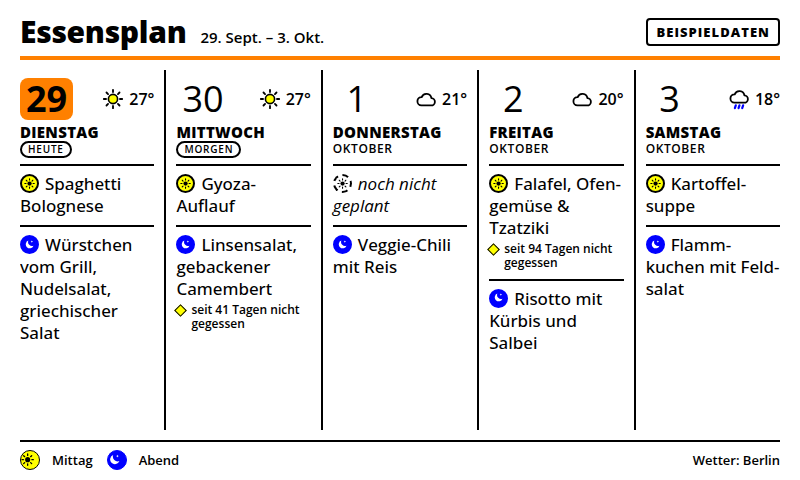
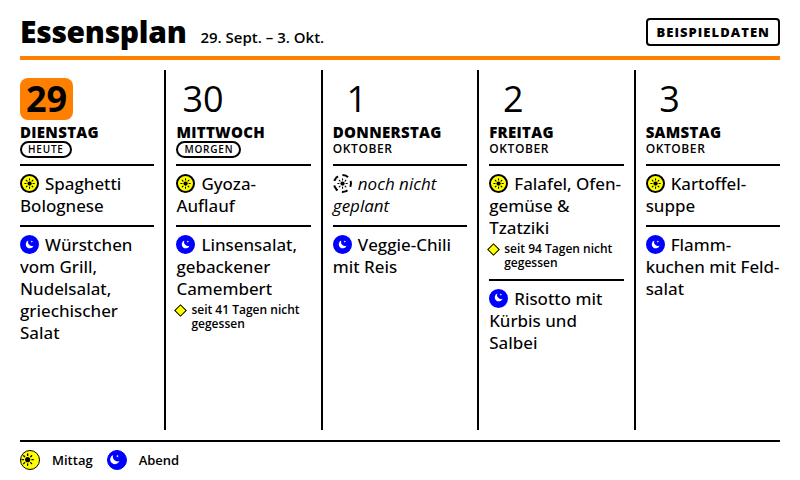
Remove weather from Meal Plan Calendar
The meal plan only shows dishes: drop the Open-Meteo forecast, the
weatherLocation setting, weather icons, footer notes and related texts,
tests and docs.

Claude-Session: https://claude.ai/code/session_016spRLE17zGqgwacGFc512h

diff --git a/applications/meal-plan-calendar/api/data.js b/applications/meal-plan-calendar/api/data.js
@@ -8,12 +8,7 @@ import {
   parseCalendarFeed,
   stringSetting,
 } from "../../_shared/calendar-feed.js";
-import { getJson } from "../../_shared/dashboard-api.js";
 
-const OPEN_METEO_FORECAST_URL = "https://api.open-meteo.com/v1/forecast";
-const OPEN_METEO_GEOCODING_URL = "https://geocoding-api.open-meteo.com/v1/search";
-const WEATHER_TTL_MS = 30 * 60 * 1000;
-const FORECAST_DAYS = 16;
 // iCloud public feeds keep roughly the last six months; look back a little further
 // so other feeds with longer histories can still report "not eaten for X days".
 const HISTORY_DAYS = 400;
@@ -160,51 +155,9 @@ export function buildPlan(meals, { today, start, days, slots, showLastEaten = tr
       if (!dayMeals.some((meal) => meal.slot === slot)) dayMeals.push({ slot, title: "", empty: true });
     }
     dayMeals.sort((a, b) => SLOT_ORDER.indexOf(a.slot) - SLOT_ORDER.indexOf(b.slot));
-    result.push({ date, meals: dayMeals, weather: null });
+    result.push({ date, meals: dayMeals });
   }
   return result;
-}
-
-function parseCoordinates(value) {
-  const match = /^\s*(-?\d{1,2}(?:\.\d+)?)\s*[,;]\s*(-?\d{1,3}(?:\.\d+)?)\s*$/.exec(value);
-  if (!match) return null;
-  const latitude = Number(match[1]);
-  const longitude = Number(match[2]);
-  if (Math.abs(latitude) > 90 || Math.abs(longitude) > 180) return null;
-  return { latitude, longitude, name: `${latitude.toFixed(2)}, ${longitude.toFixed(2)}` };
-}
-
-export async function fetchWeather(location, { timeZone, language, fetchJson = getJson }) {
-  let place = parseCoordinates(location);
-  if (!place) {
-    const search = new URLSearchParams({ name: location, count: "1", language, format: "json" });
-    const data = await fetchJson(`${OPEN_METEO_GEOCODING_URL}?${search}`, { ttl: WEATHER_TTL_MS * 48 });
-    const hit = Array.isArray(data?.results) ? data.results[0] : null;
-    if (!hit || !Number.isFinite(hit.latitude) || !Number.isFinite(hit.longitude)) {
-      throw new Error(`Weather location "${location}" was not found`);
-    }
-    place = { latitude: hit.latitude, longitude: hit.longitude, name: String(hit.name || location) };
-  }
-  const search = new URLSearchParams({
-    latitude: String(place.latitude),
-    longitude: String(place.longitude),
-    daily: "weather_code,temperature_2m_max,temperature_2m_min",
-    timezone: timeZone,
-    forecast_days: String(FORECAST_DAYS),
-  });
-  const data = await fetchJson(`${OPEN_METEO_FORECAST_URL}?${search}`, { ttl: WEATHER_TTL_MS });
-  const daily = data?.daily;
-  if (!daily || !Array.isArray(daily.time)) throw new Error("Weather forecast is unavailable");
-  const byDate = {};
-  daily.time.forEach((date, index) => {
-    const code = Number(daily.weather_code?.[index]);
-    const max = Number(daily.temperature_2m_max?.[index]);
-    const min = Number(daily.temperature_2m_min?.[index]);
-    if (Number.isFinite(code) && Number.isFinite(max)) {
-      byDate[date] = { code, max: Math.round(max), min: Number.isFinite(min) ? Math.round(min) : null };
-    }
-  });
-  return { location: place.name, byDate };
 }
 
 const SAMPLE_MEALS = {
@@ -227,16 +180,6 @@ const SAMPLE_MEALS = {
     ["Lentil stew", "Sheet-pan pizza"],
   ],
 };
-const SAMPLE_WEATHER = [
-  [0, 27, 15],
-  [1, 27, 16],
-  [3, 21, 13],
-  [3, 20, 12],
-  [61, 18, 11],
-  [2, 19, 10],
-  [80, 17, 9],
-];
-
 export function sampleEvents(start, language, slots = "lunch-dinner") {
   const dishes = SAMPLE_MEALS[language] || SAMPLE_MEALS.en;
   const withLunch = slots !== "dinner";
@@ -259,15 +202,6 @@ export function sampleEvents(start, language, slots = "lunch-dinner") {
   return events;
 }
 
-function sampleWeather(start, location) {
-  const byDate = {};
-  for (let index = 0; index < MAX_PLAN_DAYS; index += 1) {
-    const [code, max, min] = SAMPLE_WEATHER[index % SAMPLE_WEATHER.length];
-    byDate[addDays(start, index)] = { code, max, min };
-  }
-  return { location, byDate };
-}
-
 export default async function handler({ query = {} }) {
   const calendarUrl = stringSetting(query, "calendarUrl", "");
   const sample = booleanSetting(query, "sampleData", false) || !calendarUrl;
@@ -281,7 +215,6 @@ export default async function handler({ query = {} }) {
   const allDayMeal = ALL_DAY_SLOTS.has(allDaySetting) ? allDaySetting : "dinner";
   const showLastEaten = booleanSetting(query, "showLastEaten", true);
   const lastEatenMinDays = integerSetting(query, "lastEatenMinDays", 30, 1, 3650);
-  const weatherLocation = stringSetting(query, "weatherLocation", "");
   const range = planRange({ now: stringSetting(query, "now", ""), timeZone, days, startDay });
   const historyStart = addDays(range.today, -HISTORY_DAYS);
   const fetchFrom = historyStart < range.start ? historyStart : range.start;
@@ -305,21 +238,6 @@ export default async function handler({ query = {} }) {
   const meals = eventsToMeals(events, { timeZone, allDayMeal, rangeEndExclusive: range.endExclusive });
   const plan = buildPlan(meals, { ...range, days, slots, showLastEaten, lastEatenMinDays });
 
-  let weather = null;
-  let weatherError = "";
-  if (sample && weatherLocation) {
-    weather = sampleWeather(range.start, weatherLocation);
-  } else if (weatherLocation) {
-    try {
-      weather = await fetchWeather(weatherLocation, { timeZone, language });
-    } catch (error) {
-      weatherError = error instanceof Error ? error.message : String(error);
-    }
-  }
-  if (weather) {
-    for (const day of plan) day.weather = weather.byDate[day.date] || null;
-  }
-
   return {
     sample,
     source: sample ? "Sample data" : "iCloud calendar",
@@ -327,8 +245,6 @@ export default async function handler({ query = {} }) {
     timeZone,
     today: range.today,
     slots: SLOT_SETS[slots],
-    weatherLocation: weather?.location || "",
-    weatherError,
     days: plan,
   };
 }

diff --git a/applications/meal-plan-calendar/assets/render.js b/applications/meal-plan-calendar/assets/render.js
@@ -23,7 +23,6 @@ const defaults = {
   allDayMeal: "dinner",
   showLastEaten: true,
   lastEatenMinDays: 30,
-  weatherLocation: "",
   timeZone: "Europe/Berlin",
   showHeader: true,
   sampleData: false,
@@ -52,34 +51,6 @@ const glyphs = {
   other:
     '<svg viewBox="0 0 24 24" aria-hidden="true"><g fill="none" stroke="currentColor" stroke-width="2.2" stroke-linecap="round"><path d="M7 3v7a2 2 0 0 0 4 0V3M9 12v9"/><path d="M17 21V3c-2 1-3.2 3.6-3.2 7.2 0 1.6.9 2.8 3.2 2.8"/></g></svg>',
 };
-
-function weatherKind(code) {
-  if (code <= 1) return "sun";
-  if (code === 2) return "partly";
-  if (code === 45 || code === 48) return "fog";
-  if ((code >= 71 && code <= 77) || code === 85 || code === 86) return "snow";
-  if (code >= 95) return "storm";
-  if (code >= 51) return "rain";
-  return "cloud";
-}
-
-function weatherIcon(code) {
-  const sun =
-    '<circle cx="12" cy="12" r="5" fill="var(--pp-yellow)" stroke="var(--pp-black)" stroke-width="1.8"/><g stroke="currentColor" stroke-width="2" stroke-linecap="round"><path d="M12 2v2.4M12 19.6V22M2 12h2.4M19.6 12H22M4.9 4.9l1.7 1.7M17.4 17.4l1.7 1.7M4.9 19.1l1.7-1.7M17.4 6.6l1.7-1.7"/></g>';
-  const cloud =
-    '<path d="M7 19h10.5a4 4 0 0 0 .4-8A5.5 5.5 0 0 0 7.3 10 4.5 4.5 0 0 0 7 19z" fill="var(--pp-bg)" stroke="currentColor" stroke-width="2" stroke-linejoin="round"/>';
-  const shapes = {
-    sun,
-    partly:
-      '<circle cx="9" cy="8.5" r="4.4" fill="var(--pp-yellow)" stroke="var(--pp-black)" stroke-width="1.8"/><g stroke="currentColor" stroke-width="1.8" stroke-linecap="round"><path d="M9 1.5v1.6M2 8.5h1.6M4 3.5l1.1 1.1M14 3.5l-1.1 1.1"/></g><path d="M8.5 21h9a3.6 3.6 0 0 0 .3-7.2 4.8 4.8 0 0 0-9.2-.6A4 4 0 0 0 8.5 21z" fill="var(--pp-bg)" stroke="currentColor" stroke-width="2" stroke-linejoin="round"/>',
-    cloud,
-    fog: `${cloud.replace("M7 19", "M7 15").replace("a4 4 0 0 0 .4-8", "a3.5 3.5 0 0 0 .3-7").replace("4.5 4.5 0 0 0 7 19", "4 4 0 0 0 7 15")}<g stroke="currentColor" stroke-width="2" stroke-linecap="round"><path d="M4 18.5h16M6 21.5h12"/></g>`,
-    rain: `<g transform="translate(0 -3)">${cloud}</g><g stroke="var(--pp-blue)" stroke-width="2.4" stroke-linecap="round"><path d="M8.5 19l-1 3M12.5 19l-1 3M16.5 19l-1 3"/></g>`,
-    snow: `<g transform="translate(0 -3)">${cloud}</g><g fill="currentColor"><circle cx="8" cy="20.5" r="1.4"/><circle cx="12" cy="22" r="1.4"/><circle cx="16" cy="20.5" r="1.4"/></g>`,
-    storm: `<g transform="translate(0 -3)">${cloud}</g><path d="M12.5 15.5l-3 4.5h3l-1.5 3.8 4.5-5.3h-3l1.5-3z" fill="var(--pp-red)" stroke="currentColor" stroke-width="1" stroke-linejoin="round"/>`,
-  };
-  return `<svg viewBox="0 0 24 24" aria-hidden="true">${shapes[weatherKind(code)]}</svg>`;
-}
 
 function fill(template, values) {
   return String(template || "").replace(/\{(\w+)\}/g, (_match, key) => values[key] ?? "");
@@ -172,9 +143,6 @@ function renderDay(day, data, locale, messages) {
   const tag = isToday ? messages.today : isTomorrow ? messages.tomorrow : "";
   const weekday = formatter(locale, { weekday: "long" }).format(date);
   const month = formatter(locale, { month: "long" }).format(date);
-  const weather = day.weather
-    ? `<span class="mp-wx">${weatherIcon(day.weather.code)}<span>${escapeHtml(day.weather.max)}°</span></span>`
-    : "";
   let previousSlot = "";
   const meals = day.meals
     .map((meal) => {
@@ -190,7 +158,6 @@ function renderDay(day, data, locale, messages) {
         <span class="mp-wd">${escapeHtml(weekday)}${tag ? `<em class="mp-tag mp-tag--inline">${escapeHtml(tag)}</em>` : ""}</span>
         <span class="mp-mo"><span class="mp-mo-text">${escapeHtml(month)}</span>${tag ? `<em class="mp-tag mp-tag--below">${escapeHtml(tag)}</em>` : ""}</span>
       </span>
-      ${weather}
     </header>
     ${meals ? `<ul class="mp-meals">${meals}</ul>` : `<p class="mp-nothing">${escapeHtml(messages.nothingPlanned)}</p>`}
   </section>`;
@@ -232,8 +199,6 @@ function renderPlan(data, settings, messages, visibleCount) {
     .join("");
   const meta = [];
   if (hidden > 0) meta.push(hidden === 1 ? messages.moreDaysOne : fill(messages.moreDays, { count: hidden }));
-  if (data.weatherLocation) meta.push(fill(messages.weatherFor, { location: data.weatherLocation }));
-  else if (data.weatherError) meta.push(messages.weatherUnavailable);
   if (data.sample && !settings.showHeader) meta.push(messages.sampleSource);
   app.innerHTML = `${head}
     <div class="mp-days" style="--mp-count:${days.length}">
@@ -302,7 +267,6 @@ async function loadPlan(settings, language) {
       allDayMeal: settings.allDayMeal,
       showLastEaten: settings.showLastEaten,
       lastEatenMinDays: settings.lastEatenMinDays,
-      weatherLocation: settings.weatherLocation,
       timeZone: settings.timeZone,
       sampleData: settings.sampleData,
       now: settings.now,

diff --git a/applications/meal-plan-calendar/render.html b/applications/meal-plan-calendar/render.html
@@ -102,8 +102,8 @@
       }
       .mp-date {
         display: grid;
-        grid-template-columns: auto 1fr auto;
-        grid-template-areas: "num dt wx";
+        grid-template-columns: auto 1fr;
+        grid-template-areas: "num dt";
         align-items: center;
         column-gap: calc(var(--k) * 12);
         padding-bottom: calc(var(--k) * 6);
@@ -159,21 +159,6 @@
         letter-spacing: 0.05em;
         line-height: 1.2;
       }
-      .mp-wx {
-        grid-area: wx;
-        display: flex;
-        align-items: center;
-        gap: calc(var(--k) * 5);
-        font-size: calc(var(--k) * 18);
-        font-weight: 600;
-        font-variant-numeric: tabular-nums;
-        white-space: nowrap;
-      }
-      .mp-wx svg {
-        width: calc(var(--k) * 26);
-        height: calc(var(--k) * 26);
-      }
-
       .mp-meals {
         list-style: none;
         margin: 0;
@@ -337,10 +322,10 @@
           padding-right: 0;
         }
         .mp-date {
-          grid-template-columns: auto 1fr;
+          grid-template-columns: 1fr;
           grid-template-areas:
-            "num wx"
-            "dt dt";
+            "num"
+            "dt";
           row-gap: calc(var(--k) * 4);
           column-gap: calc(var(--k) * 6);
         }
@@ -348,14 +333,6 @@
           justify-self: start;
           min-width: calc(var(--k) * 48);
           font-size: calc(var(--k) * 36);
-        }
-        .mp-wx {
-          justify-self: end;
-          font-size: calc(var(--k) * 16);
-        }
-        .mp-wx svg {
-          width: calc(var(--k) * 22);
-          height: calc(var(--k) * 22);
         }
         .mp-wd {
           font-size: calc(var(--k) * 15);

diff --git a/README.md b/README.md
@@ -140,7 +140,7 @@ For local development, use `http://localhost:3000/<slug>/config.json`.
 | <img src="applications/language-learning/assets/icon.png" alt="" width="200" height="200">                 | [Language Learning](applications/language-learning/README.md)                       | [run](https://integrations.paperlesspaper.de/language-learning/run)           | [config](https://integrations.paperlesspaper.de/language-learning/config.json)           | Shows a deterministic foreign-language word of the day with pronunciation, translation, example, and a small practice prompt.                  |
 | <img src="applications/losung/assets/icon.png" alt="" width="200" height="200">                            | [Losung](applications/losung/README.md)                                             | [run](https://integrations.paperlesspaper.de/losung/run)                      | [config](https://integrations.paperlesspaper.de/losung/config.json)                      | Shows the daily Losung and Lehrtext Bible readings from losungen.de.                                                                           |
 | <img src="applications/mastodon/assets/icon.png" alt="" width="200" height="200">                          | [Mastodon](applications/mastodon/README.md)                                         | [run](https://integrations.paperlesspaper.de/mastodon/run)                    | [config](https://integrations.paperlesspaper.de/mastodon/config.json)                    | Shows Mastodon timelines, hashtag streams, and profile feeds as compact eInk-friendly social cards.                                            |
-| <img src="applications/meal-plan-calendar/assets/icon.png" alt="" width="200" height="200">                | [Meal Plan Calendar](applications/meal-plan-calendar/README.md)                     | [run](https://integrations.paperlesspaper.de/meal-plan-calendar/run)          | [config](https://integrations.paperlesspaper.de/meal-plan-calendar/config.json)          | Shows a family meal plan from a shared iCloud calendar with lunch and dinner per day, optional weather, and rarely cooked dishes.               |
+| <img src="applications/meal-plan-calendar/assets/icon.png" alt="" width="200" height="200">                | [Meal Plan Calendar](applications/meal-plan-calendar/README.md)                     | [run](https://integrations.paperlesspaper.de/meal-plan-calendar/run)          | [config](https://integrations.paperlesspaper.de/meal-plan-calendar/config.json)          | Shows a family meal plan from a shared iCloud calendar with lunch and dinner per day and a hint for dishes not eaten for a while.            |
 | <img src="applications/memo-medication-times/assets/icon.png" alt="" width="200" height="200">             | [Memo Medication Times](applications/memo-medication-times/README.md)               | [run](https://integrations.paperlesspaper.de/memo-medication-times/run)       | [config](https://integrations.paperlesspaper.de/memo-medication-times/config.json)       | Shows ANABOX smart medication intake times with medication colors, date header, last update, and a full-screen reminder during intake windows. |
 | <img src="applications/moon-phase/assets/icon.png" alt="" width="200" height="200">                        | [Moon Phase](applications/moon-phase/README.md)                                     | [run](https://integrations.paperlesspaper.de/moon-phase/run)                  | [config](https://integrations.paperlesspaper.de/moon-phase/config.json)                  | Shows the moon phase for a chosen date, with illumination, moon age, hemisphere, and an optional next major phase estimate.                    |
 | <img src="applications/newsstand/assets/icon.png" alt="" width="200" height="200">                         | [Newsstand](applications/newsstand/README.md)                                       | [run](https://integrations.paperlesspaper.de/newsstand/run)                   | [config](https://integrations.paperlesspaper.de/newsstand/config.json)                   | Shows a fresh newspaper front page from Riley Walz's Papers archive.                                                                           |

diff --git a/applications/meal-plan-calendar/README.md b/applications/meal-plan-calendar/README.md
@@ -1,7 +1,7 @@
 # Meal Plan Calendar
 
 Shows a family meal plan ("Essensplan") that lives in a shared iCloud calendar. Every day gets a large
-date, optional weather, and its meals grouped into breakfast, lunch, and dinner. Open slots appear as
+date and its meals grouped into breakfast, lunch, and dinner. Open slots appear as
 "not planned yet", and dishes that have not been on the table for a while get a small
 "not eaten for X days" hint, computed from the calendar's own history.
 
@@ -53,7 +53,6 @@ older history cannot be counted.
 | `allDayMeal` | `dinner` | Slot for all-day entries without prefix: `dinner`, `lunch`, `breakfast`, `other`. |
 | `showLastEaten` | `true` | Show the "not eaten for X days" hint. |
 | `lastEatenMinDays` | `30` | Minimum gap before the hint appears. |
-| `weatherLocation` | `""` | City or `latitude, longitude` for the daily Open-Meteo forecast (up to 16 days). Empty hides weather. |
 | `timeZone` | `Europe/Berlin` | IANA time zone for "today" and timed entries. |
 | `showHeader` | `true` | Show title, date range, and sample label. |
 
@@ -65,7 +64,6 @@ older history cannot be counted.
   their accent instead. "Today"/"Tomorrow" are also written out.
 - Slot badges use native pigments: yellow with black outline for lunch, blue for dinner, green for
   breakfast. The footer legend names each slot, so color is never the only cue.
-- Weather is optional; a failed forecast never blocks the meal plan.
 
 ## Local verification
 
